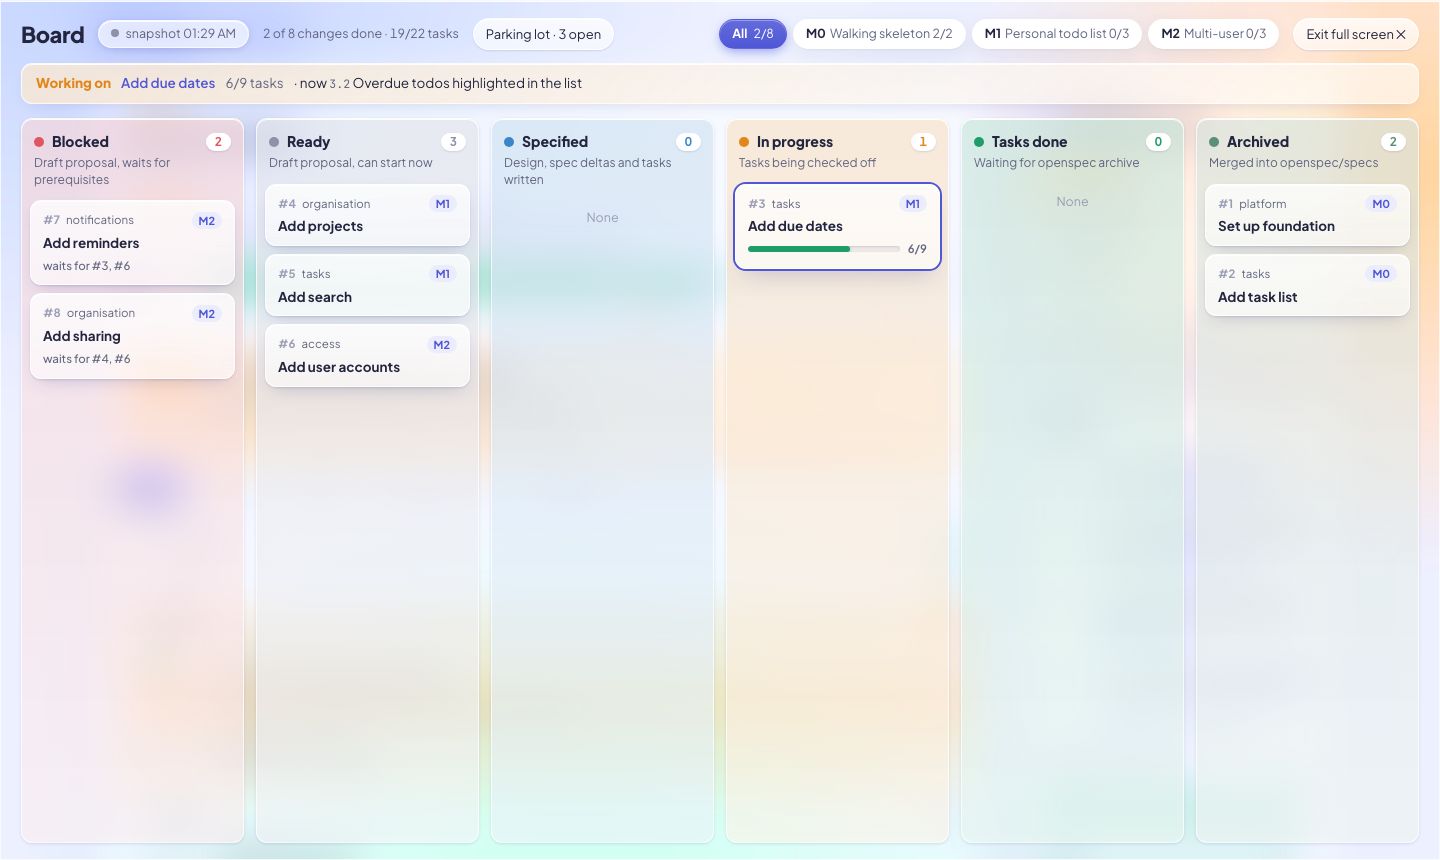
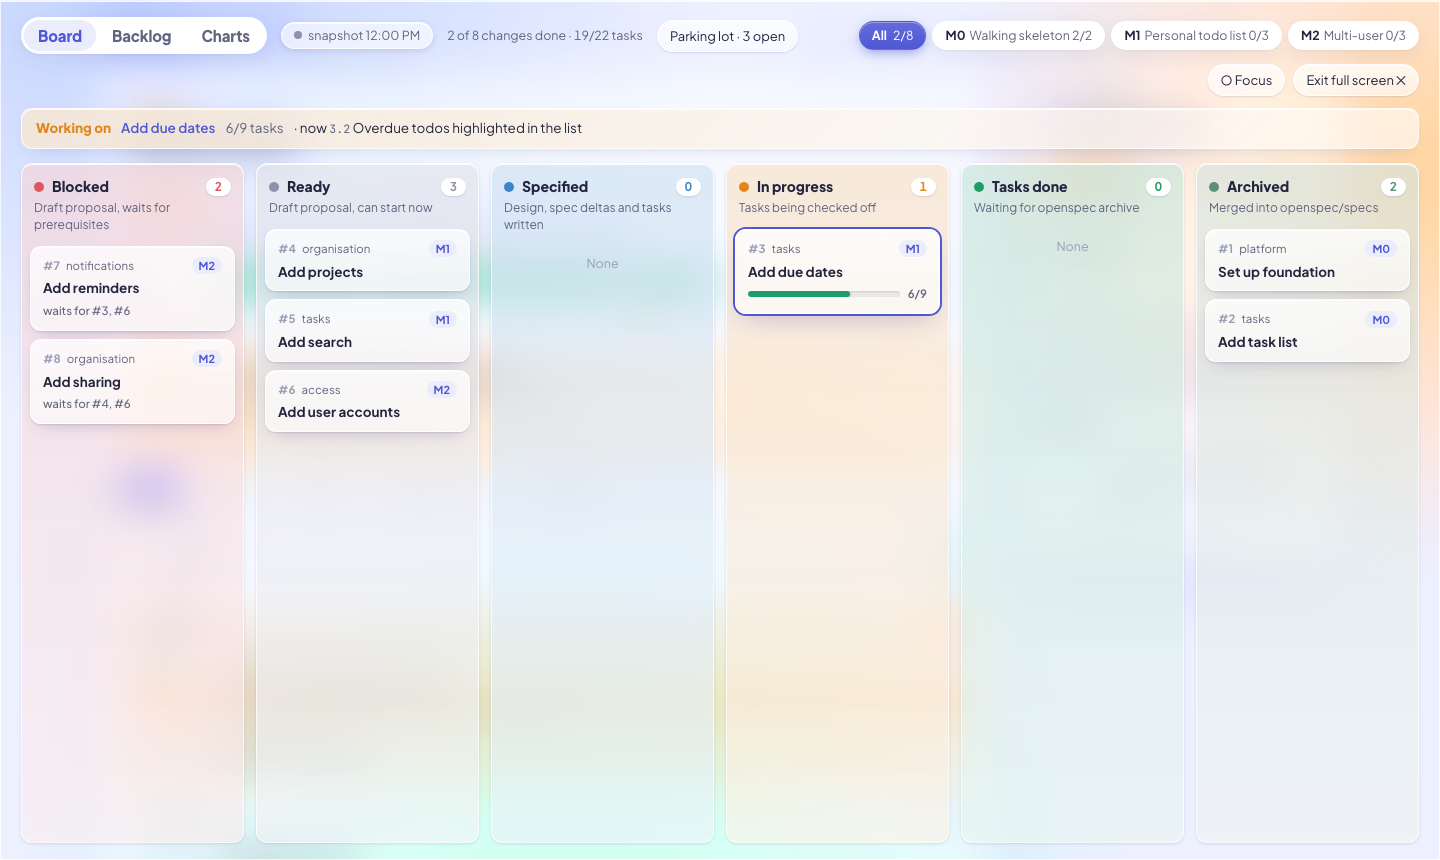
Docs: current screenshots of the overview, board and projects
The overview, board and board-with-details screenshots predated the
Board | Backlog | Charts switch and focus mode, and the projects overview
did not show the onboarding section. Retaken from the samples. The tabs of
a change now wrap instead of scrolling out of sight in the side panel.

diff --git a/tools/openspec-dashboard/index.html b/tools/openspec-dashboard/index.html
@@ -121,7 +121,7 @@ header.top h1 span { color: var(--muted); font-weight: 500; }
 .now .v b { font-weight: 700; color: var(--ink); margin-right: 4px; }
 .now .pulse { grid-column: 2; font-size: 12.5px; color: var(--muted); display: flex; gap: 6px 16px; flex-wrap: wrap; margin-top: 6px; }
 
-.tabs { display: flex; gap: 4px; padding: 0 20px; margin-top: 18px; overflow-x: auto; }
+.tabs { display: flex; flex-wrap: wrap; gap: 4px; padding: 0 20px; margin-top: 18px; }
 .tab { border: 0; background: none; padding: 7px 14px; cursor: pointer; color: var(--muted); border-radius: 999px; font-size: 13.5px; font-weight: 600; white-space: nowrap; }
 .tab:hover:not(:disabled) { background: var(--surface-2); }
 .tab[aria-selected="true"] { color: var(--accent); background: var(--accent-soft); }

diff --git a/docs/user-guide.md b/docs/user-guide.md
@@ -209,10 +209,10 @@ Every question, chat message and session is a normal Claude Code run and counts 
 Pass several projects, or `--scan` a folder, and the dashboard starts with an overview of all of them:
 
 ```sh
-node tools/openspec-dashboard/server.mjs --scan=examples
+node tools/openspec-dashboard/server.mjs --scan=examples            # add --agent for onboarding (below)
 ```
 
-![Overview of two projects](images/dashboard-projects.png)
+![Overview of two projects, and projects to onboard below them](images/dashboard-projects.png)
 
 Each card shows the change being worked on and its current task, the task progress, the mix of statuses (the
 coloured bar), the current milestone, validation problems and when something last happened; the most recently
@@ -221,11 +221,10 @@ dashboard; **All projects** in the picker returns to the overview.
 
 ### Onboard more projects
 
-With `--agent`, the overview also finds projects to onboard. Enter a folder under **Onboard more projects** and press
-**Discover**: it lists the folders below it with a `CLAUDE.md` or `AGENTS.md` that the dashboard does not follow
-yet, with the first line of their README and their last commit.
-
-![Projects to onboard](images/dashboard-discover.png)
+With `--agent`, the overview also finds projects to onboard (the lower half of the screenshot above). Enter a folder
+under **Onboard more projects** and press **Discover**: it lists the folders below it with a `CLAUDE.md` or
+`AGENTS.md` that the dashboard does not follow yet, with the first line of their README and their last commit. A
+folder that has `openspec/` already gets **Follow**.
 
 **Onboard** lets Claude set up OpenSpec and the ticket workflow in that project in the background (nothing is
 committed; check the result in git), and adds the project to the dashboard when it is done. Not sure? **Chat about
